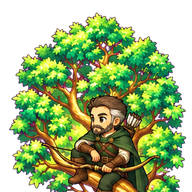
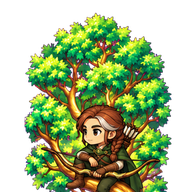
Archer master is a woman now: Master Lyra on the Tree of Life. Seraphine floats over the stone block beside her (NPCs can stand on a block: z; name plate stays on the floor line); Gareth a step left
Claude-Session: https://claude.ai/code/session_01L1uDDec2PRhRRuGiNU2YTw

diff --git a/src/world/OpenWorld.ts b/src/world/OpenWorld.ts
@@ -138,20 +138,23 @@ export class OpenWorld {
   private buildNpcs(): void {
     for (const a of ROW) for (const n of a.npcs ?? []) {
       const art = ART[n.art]; if (!art) continue;
-      const p = toWorld(a.id, [n.x, n.y]);
-      const sprite = this.scene.add.sprite(p.x, p.y, `npc-${n.art}`, 0).setOrigin(n.flip ? 1 - art.ox : art.ox, art.oy).setScale(1 / art.q).setDepth(p.y).setFlipX(!!n.flip);
-      const shadow = this.scene.add.ellipse(p.x, p.y - 1, 40, 13, 0x000000, 0.32).setDepth(p.y - 0.5);
+      const g = toWorld(a.id, [n.x, n.y]), z = n.z ?? 0;
+      const p = { x: g.x, y: g.y - z };          // on a block: drawn up on its top face
+      const d = g.y + (z ? 40 : 0);               // on a block: in front of the block's picture
+      const sprite = this.scene.add.sprite(p.x, p.y, `npc-${n.art}`, 0).setOrigin(n.flip ? 1 - art.ox : art.ox, art.oy).setScale(1 / art.q).setDepth(d).setFlipX(!!n.flip);
+      const shadow = this.scene.add.ellipse(p.x, p.y - 1, 40, 13, 0x000000, 0.32).setDepth(d - 0.5);
       const nd = NAME_DEPTH + p.y * 0.001; // name, title and quest marker stay readable over anything in front
-      const name = this.scene.add.text(p.x, p.y + 22, n.name, { fontFamily: 'Cinzel, Georgia, serif', fontSize: '15px', fontStyle: '700', color: '#ffe28a', stroke: '#140c02', strokeThickness: 3, resolution: 2 }).setOrigin(0.5).setDepth(nd + 0.0002);
+      const ly = g.y; // name plate under the feet on the floor (on a block: in front of its base)
+      const name = this.scene.add.text(p.x, ly + 22, n.name, { fontFamily: 'Cinzel, Georgia, serif', fontSize: '15px', fontStyle: '700', color: '#ffe28a', stroke: '#140c02', strokeThickness: 3, resolution: 2 }).setOrigin(0.5).setDepth(nd + 0.0002);
       // the plate stretches only in its blue middle: the gold diamond ends keep their shape, the name sits well inside
       const ps = PLATE.h / 128, pw = (name.width + PLATE.pad * 2) / ps + PLATE.cap * 2;
-      const plate = this.scene.add.nineslice(p.x, p.y + 22, 'kit.npc_plate', undefined, pw, 128, PLATE.cap, PLATE.cap, 0, 0).setScale(ps).setDepth(nd + 0.0001);
-      const title = this.scene.add.text(p.x, p.y + 45, n.title, { fontFamily: HUD.bodyFont, fontSize: '13px', fontStyle: '600', color: '#efe3c4', stroke: '#140c02', strokeThickness: 3, resolution: 2 }).setOrigin(0.5).setDepth(nd + 0.0002);
+      const plate = this.scene.add.nineslice(p.x, ly + 22, 'kit.npc_plate', undefined, pw, 128, PLATE.cap, PLATE.cap, 0, 0).setScale(ps).setDepth(nd + 0.0001);
+      const title = this.scene.add.text(p.x, ly + 45, n.title, { fontFamily: HUD.bodyFont, fontSize: '13px', fontStyle: '600', color: '#efe3c4', stroke: '#140c02', strokeThickness: 3, resolution: 2 }).setOrigin(0.5).setDepth(nd + 0.0002);
       const top = p.y - art.h * art.oy / art.q; // head top (world px)
       const mark = this.scene.add.image(p.x, top - 26, MARK_TEX.available).setDisplaySize(15, 42).setDepth(nd + 0.0003).setVisible(false);
       // a click on the game itself only (not one on a window drawn over the NPC: the inventory, the skill book)
       sprite.setInteractive({ useHandCursor: true }).on('pointerdown', (p: Phaser.Input.Pointer) => { if (p.event?.target === this.scene.game.canvas) this.onNpcClick?.(n); });
-      this.npcs.push({ def: n, area: a.id, x: p.x, y: p.y, top, sprite, shadow, plate, name, title, mark, markKind: null, t: Math.random() * 3000 });
+      this.npcs.push({ def: n, area: a.id, x: p.x, y: g.y, top, sprite, shadow, plate, name, title, mark, markKind: null, t: Math.random() * 3000 });
     }
   }
 

diff --git a/src/world/Areas.ts b/src/world/Areas.ts
@@ -17,6 +17,8 @@ export interface AreaNpc {
   id: string; name: string; title: string; x: number; y: number; art: string;
   /** Faces left (the art faces right). */
   flip?: boolean;
+  /** Stands on a block of this height (drawn that much higher, in front of the block). */
+  z?: number;
   /** quest: gives the quests whose `giver` is this NPC; talk: just its lines. */
   role: 'quest' | 'talk'; lines?: string[];
 }
